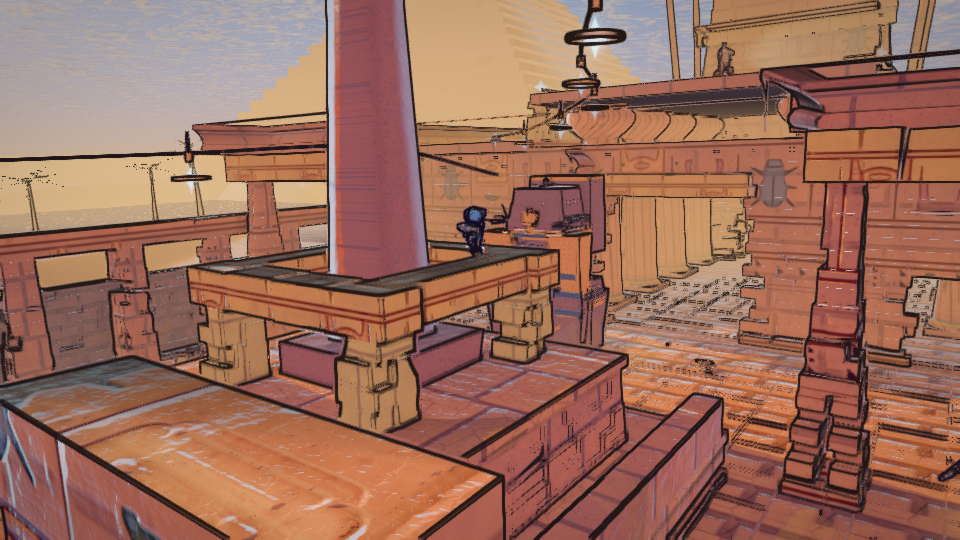
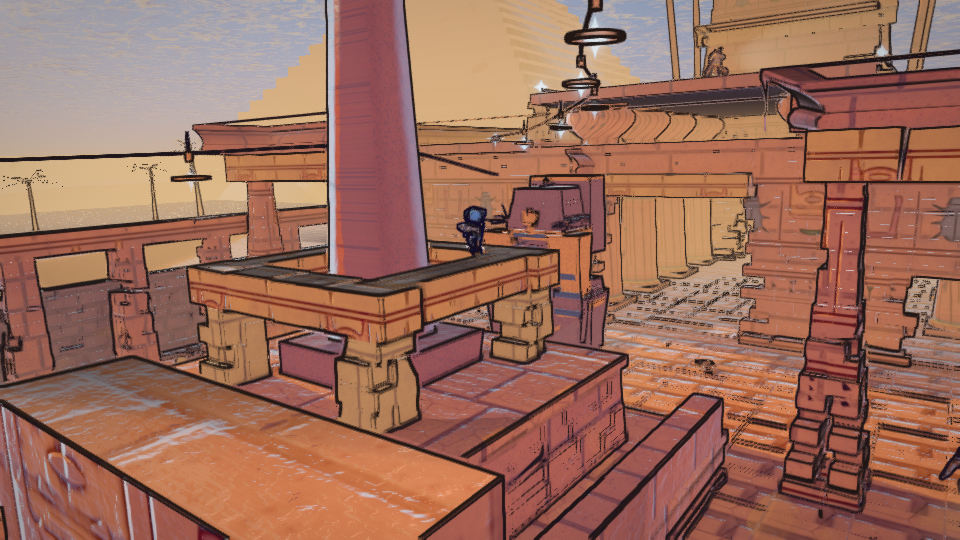
Stop hull outlines inverting into glowing lines at distance
The ink/sky agent flagged this in a file it was told not to touch. OUTLINE_FRAG
blended the hull ink toward the haze colour at up to 0.92 with no bound, so
wherever haze is brighter than ink the line inverted. At night the haze is a lit
blue and the ink is near-black, so distant hull outlines rendered as glowing blue
wires instead of receding.

Clamping the blend target to the ink's own luminance keeps the aerial-perspective
fade - the line still washes toward the background hue and loses contrast with
distance - while making it arithmetically impossible for a line to add light. Same
invariant the screen-space crease pass now enforces with min(ink, c).

Claude-Session: https://claude.ai/code/session_01PXtatFVa9WWnKz5zHerfeC

diff --git a/src/render/shaders/toon.glsl.js b/src/render/shaders/toon.glsl.js
@@ -513,12 +513,21 @@ void main() {
 	vec3 ink = mix( uInkShade, uInkSun, lit ) * uInkGain;
 
 	/* Lines obey aerial perspective, or every distant silhouette stays razor sharp and the
-	   depth cue the haze was buying gets thrown away. */
+	   depth cue the haze was buying gets thrown away.
+
+	   But an ink line may only ever be *darker* than what it sits on. Blending toward the
+	   haze colour unconditionally inverted the line wherever haze is brighter than ink —
+	   at night the haze is a lit blue while the ink is near-black, so distant hull outlines
+	   came out as glowing blue wires instead of receding. Clamping the target to the ink's
+	   own luminance keeps the aerial-perspective *fade* (the line washes toward the
+	   background's hue and loses contrast with distance) while making it arithmetically
+	   impossible for a line to add light. Same rule the screen-space crease pass follows. */
 	float dist = length( vSlyViewPos );
 	vec3 wp = slyWorldPos( vSlyViewPos );
 	vec3 rd = dist > 1e-4 ? ( wp - cameraPosition ) / dist : vec3( 0.0, 0.0, -1.0 );
 	float haze = slyHaze( cameraPosition, rd, dist );
-	ink = mix( ink, slyHazeColor( rd ), haze * 0.92 );
+	vec3 hazeInk = min( slyHazeColor( rd ), ink );
+	ink = mix( ink, hazeInk, haze * 0.92 );
 
 	gl_FragColor = vec4( ink, uInkOpacity );
 
